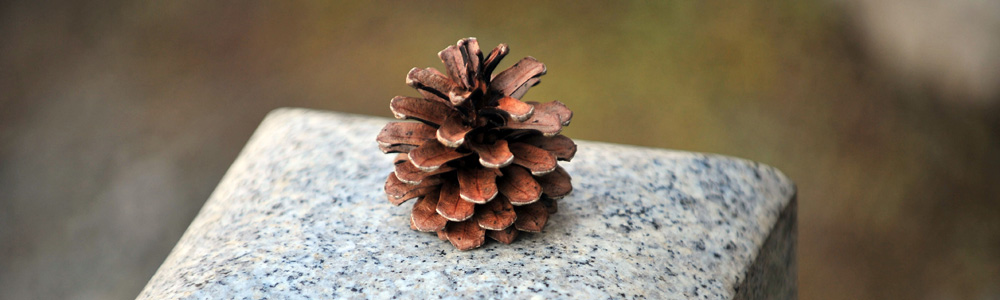
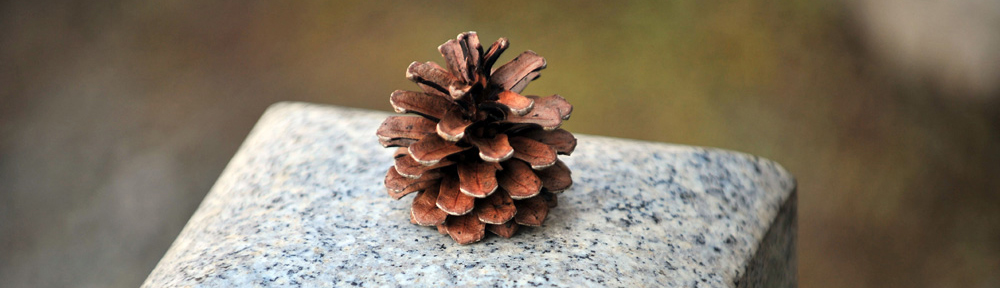
Twenty Eleven: adding RTL editor styles and tighter header height - see #17198

diff --git a/wp-content/themes/twentyeleven/style.css b/wp-content/themes/twentyeleven/style.css
@@ -474,7 +474,7 @@ a:hover {
 	z-index: 2;
 }
 #site-title {
-	padding: 4em 0 0;
+	padding: 3.65625em 0 0;
 }
 #site-title a {
 	color: #111;
@@ -486,7 +486,7 @@ a:hover {
 #site-description {
 	color: #7a7a7a;
 	font-size: 14px;
-	margin: 0 0 4em;
+	margin: 0 0 3.65625em;
 }
 #branding img {
 	height: auto;
@@ -578,7 +578,7 @@ a:hover {
 /* Search Form */
 #branding #searchform {
 	position: absolute;
-	top: 4.3em;
+	top: 3.8em;
 	right: 7.6%;
 	text-align: right;
 }
@@ -1468,6 +1468,10 @@ p img,
 	top: 7px;
 }
 .gallery-caption {
+}
+img#wpstats {
+    display: block;
+    margin: 0 auto 1.625em;
 }
 
 

diff --git a/wp-content/themes/twentyeleven/editor-style-rtl.css b/wp-content/themes/twentyeleven/editor-style-rtl.css
@@ -1,0 +1,23 @@
+/*
+Theme Name: Twenty Eleven
+*/
+/*
+Used to style the TinyMCE editor.
+*/
+html .mceContentBody{
+	direction:rtl;
+	unicode-bidi:embed;
+	float:right;
+}
+* {
+	font-family: Arial, Tahoma, sans-serif;
+}
+ul, ol {
+	margin: 0 2.5em 1.625em 0;
+}
+blockquote {
+	font-style: normal;
+}
+table {
+	text-align: right;
+}

diff --git a/wp-content/themes/twentyeleven/functions.php b/wp-content/themes/twentyeleven/functions.php
@@ -124,7 +124,7 @@ function twentyeleven_setup() {
 	// The height and width of your custom header. You can hook into the theme's own filters to change these values.
 	// Add a filter to twentyeleven_header_image_width and twentyeleven_header_image_height to change these values.
 	define( 'HEADER_IMAGE_WIDTH', apply_filters( 'twentyeleven_header_image_width', 1000 ) );
-	define( 'HEADER_IMAGE_HEIGHT', apply_filters( 'twentyeleven_header_image_height', 300 ) );
+	define( 'HEADER_IMAGE_HEIGHT', apply_filters( 'twentyeleven_header_image_height', 288 ) );
 
 	// We'll be using post thumbnails for custom header images on posts and pages.
 	// We want them to be 940 pixels wide by 198 pixels tall.
